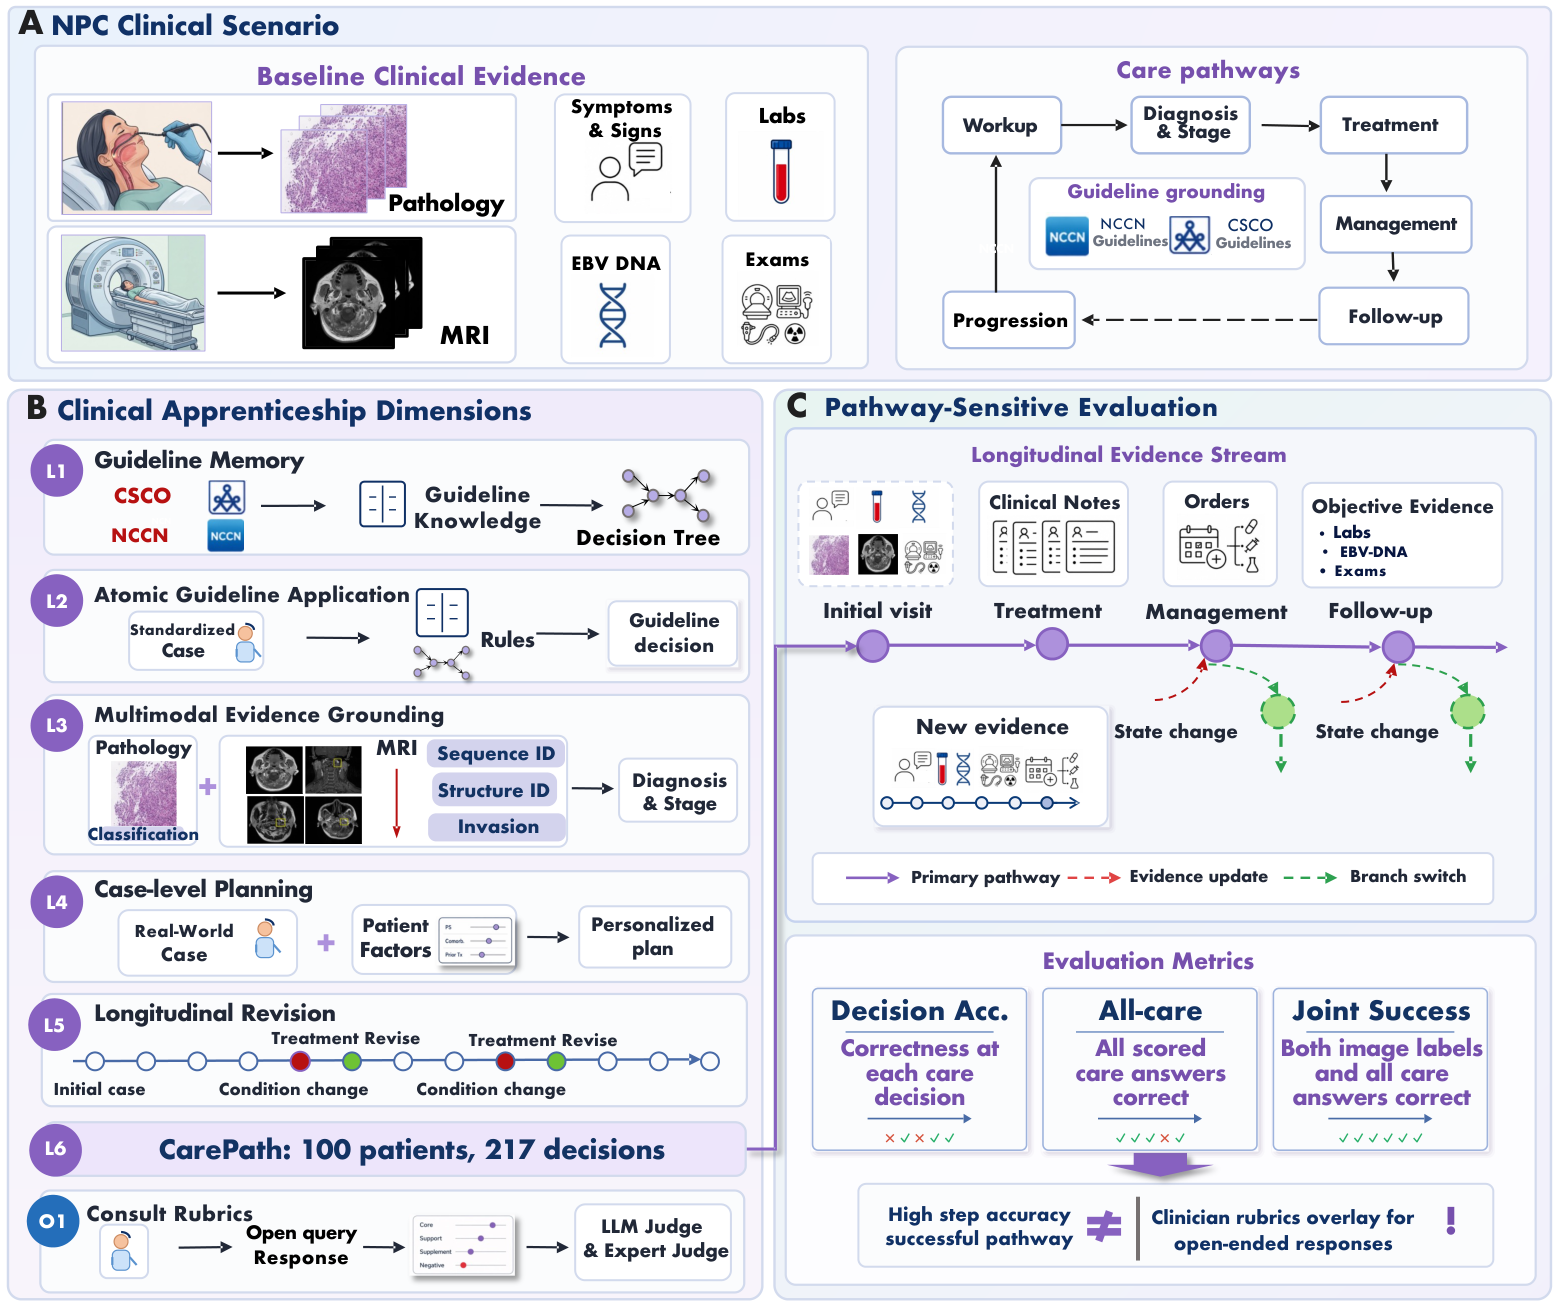
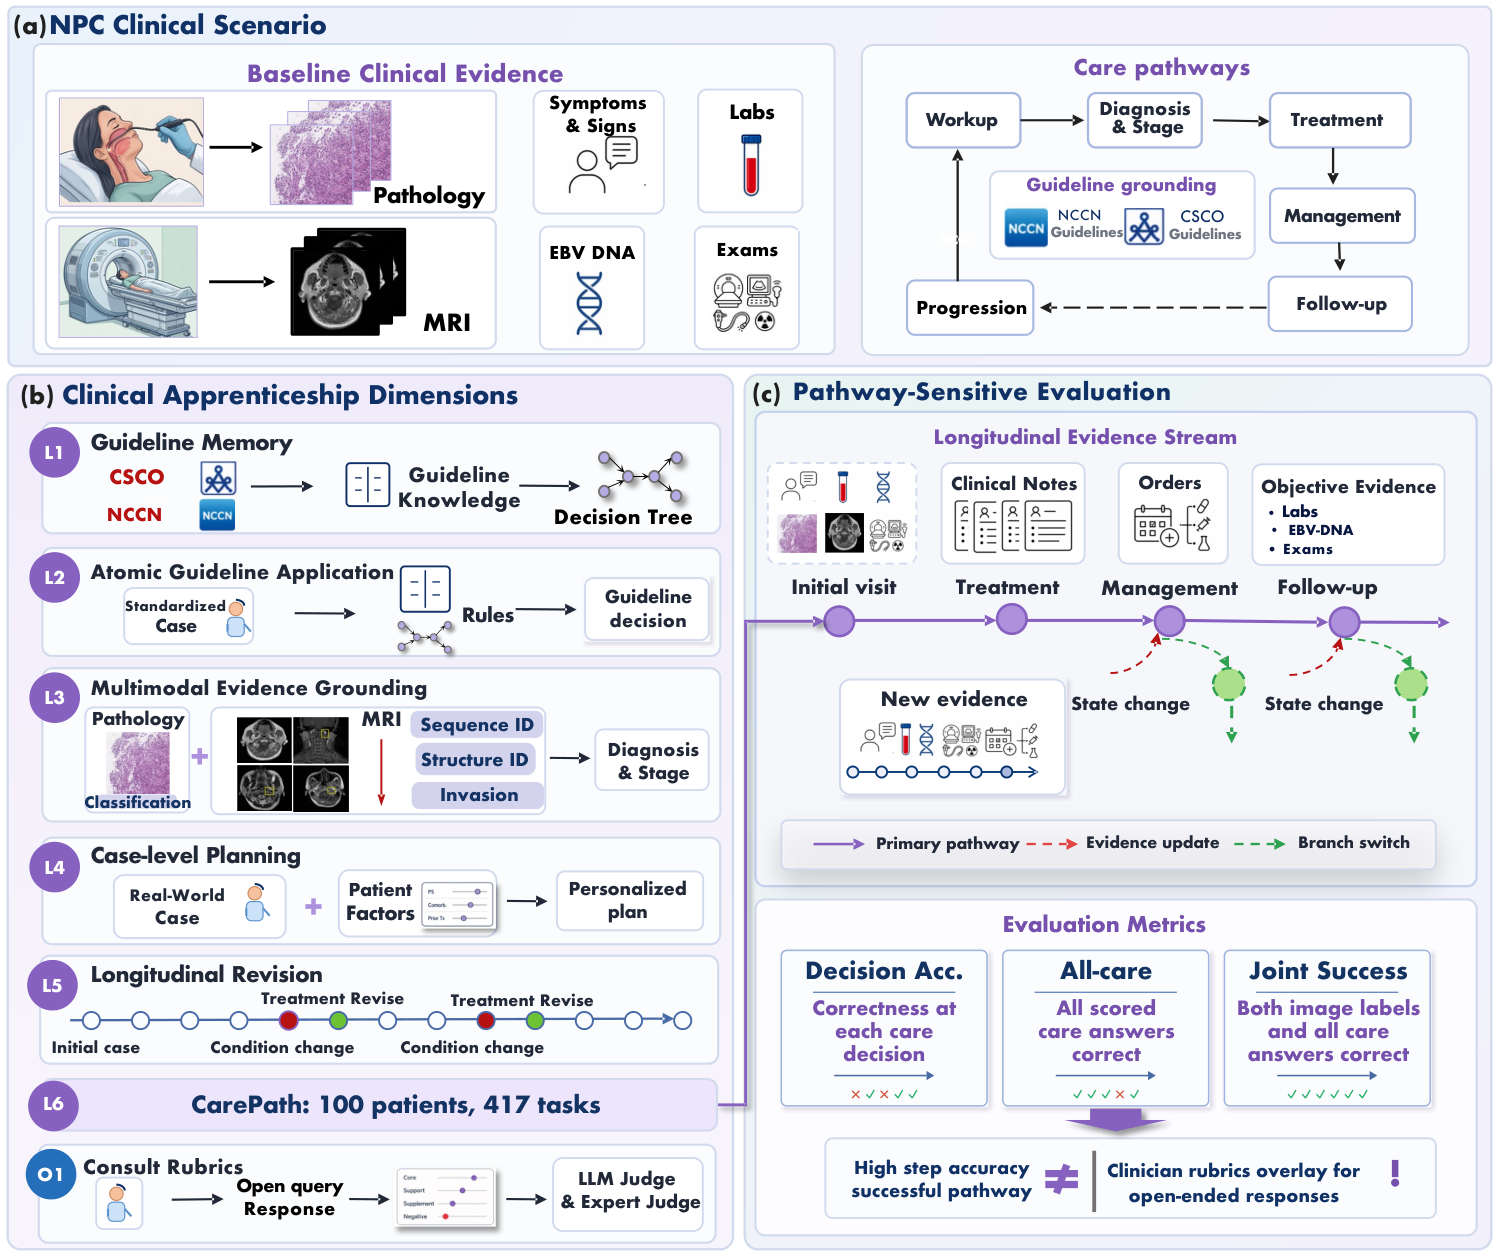
Align CarePath documentation and complete physician calibration results

diff --git a/README.md b/README.md
@@ -19,7 +19,7 @@ open-ended consultation task, evaluated across 30 models.
 | L3 · Multimodal grounding | 69 pathology cases; 200 sequence questions; 2,700 structure cards; 400 T-stage and 400 N-stage cases |
 | L4 · Case planning | 165 questions from 84 patients |
 | L5 · Longitudinal revision | 305 decisions from 100 patients |
-| L6 · CarePath | 100 patients, 217 scored care decisions |
+| L6 · CarePath | 100 patients, 417 scored tasks: 100 pathology, 100 MRI T, 217 care decisions |
 | O1 · Consultation | 103 questions from 42 cases, 1,726 criteria |
 
 T and N cohorts are disjoint. The 100-patient anatomical panel is part of T400.
@@ -29,18 +29,21 @@ An independent T-stage panel contains 53 patients from Nanfang Hospital.
 
 ## Results
 
-Scores are percentages; higher is better. Full100 joint success requires correct
+The CarePath cohort contains 100 patient episodes. Scores are percentages; higher
+is better. CarePath joint success requires correct
 pathology and MRI T labels and every scored care decision for a patient.
 The [complete results](results/main_results.csv) cover all 30 models.
 [External-centre results](results/external_mri.csv) report the separate MRI panel.
+[Physician calibration](results/physician_calibration.csv) reports agreement with
+specialist labels on two consultation panels.
 
-| Model | L2 | T400 | N400 | L5 turn | Full100 joint | O1 |
+| Model | L2 | T400 | N400 | L5 turn | CarePath joint | O1 |
 |---|---:|---:|---:|---:|---:|---:|
-| GPT-5.1 | 80.9 | 27.2 | 32.8 | 75.7 | 2.0 | 58.4 |
+| GPT-5.1 | 80.9 | 27.3 | 32.8 | 75.7 | 2.0 | 58.4 |
 | GPT-4.1 | 77.6 | 39.8 | 22.0 | 78.7 | 2.0 | 33.3 |
 | Gemini-3.1-Pro-Preview | 92.5 | 31.0 | 38.5 | 87.9 | 11.0 | 47.8 |
 | Claude-Sonnet-4.6 | 86.1 | 33.5 | 27.3 | 85.2 | 23.0 | 47.5 |
-| Qwen3.6-35B-A3B | 67.9 | 43.5 | 20.2 | 76.1 | 5.0 | 42.4 |
+| Qwen3.6-35B-A3B | 67.9 | 43.5 | 20.3 | 76.1 | 5.0 | 42.4 |
 | Qwen3.6-27B | 71.4 | 37.5 | 42.8 | 79.7 | 5.0 | 47.2 |
 | Hulu-Med-32B | 74.5 | 29.0 | 20.0 | 70.2 | 10.0 | 7.6 |
 | GPT-OSS-120B | 75.4 | — | — | 60.3 | — | 44.9 |

diff --git a/docs/mri_extension.md b/docs/mri_extension.md
@@ -4,7 +4,7 @@ L3 evaluates T stage in 400 patients and N stage in a disjoint set of 400 patien
 using AJCC/UICC edition 8. T400 has two image formats: structure cards for 100
 patients and aligned sequence groups for 300 patients. N400 uses sequence groups.
 The 100-patient anatomical panel also supplies the structure-invasion diagnostics.
-Full100 is a separate care-path task and uses AJCC edition 9.
+MRI T staging in the 100-patient CarePath cohort uses AJCC edition 9.
 
 ## Images and prompts
 
@@ -54,10 +54,10 @@ allows up to 256 scheduled sequences and bounds CPU image preparation to 48
 unfinished patients in chunks of eight. The evaluated environment uses vLLM
 0.19.1, Transformers 5.6.0, PyTorch 2.10.0 and qwen-vl-utils 0.0.14.
 
-Full100 profiles are in `configs/mri_extension/full100/`. They use ten MRI pages
+CarePath profiles are in `configs/mri_extension/full100/`. They use ten MRI pages
 per patient. InternVL uses up to 12 patches per image. Hulu pathology uses spatial
 merge 1 and a 16,384 visual-token budget, separately from MRI. Use `--l6-inputs`
-with the extracted Full100 directory to construct care inputs from that model's
+with the extracted CarePath directory to construct care inputs from that model's
 image predictions.
 
 ## API models
